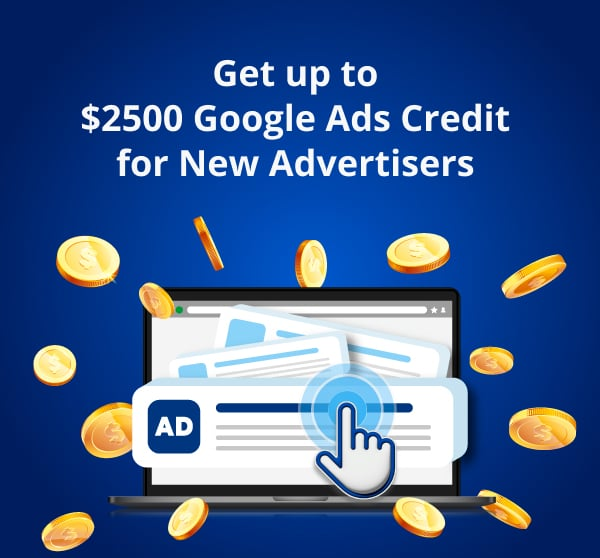
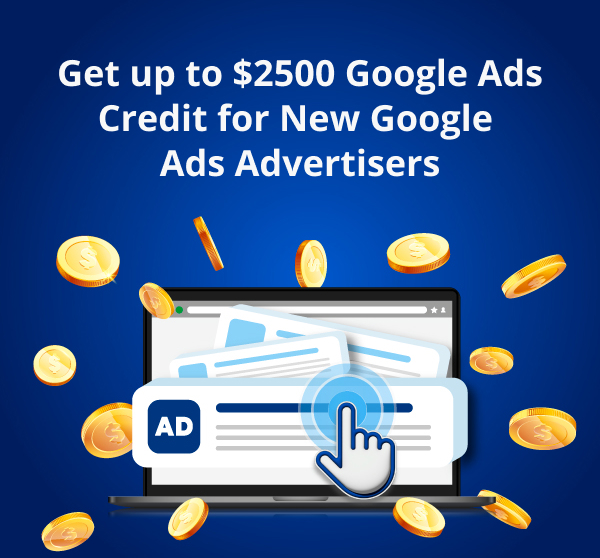
refactor: image update

diff --git a/dist/amplify-2500-credit.html b/dist/amplify-2500-credit.html
@@ -145,7 +145,7 @@
           <table border="0" cellpadding="0" cellspacing="0" align="center" width="100%" style="max-width:600px;margin:0 auto;border-bottom:0" bgcolor="#fff">
             <tr>
               <td align="center">
-                <a href="#" target="_blank" style="color:#00b3e3;text-decoration:none"><img src="https://justatic.com/v/1/emails/images/newsletters/2024/08/2500-googleads-credit.jpg" alt="Put Your Best Foot Forward" border="0" style="display:block;max-width:100%"/></a>
+                <a href="#" target="_blank" style="color:#00b3e3;text-decoration:none"><img src="https://justatic.com/v/3/emails/images/newsletters/2024/08/2500-googleads-credit.jpg" alt="Put Your Best Foot Forward" border="0" style="display:block;max-width:100%"/></a>
               </td>
             </tr>
           </table>
